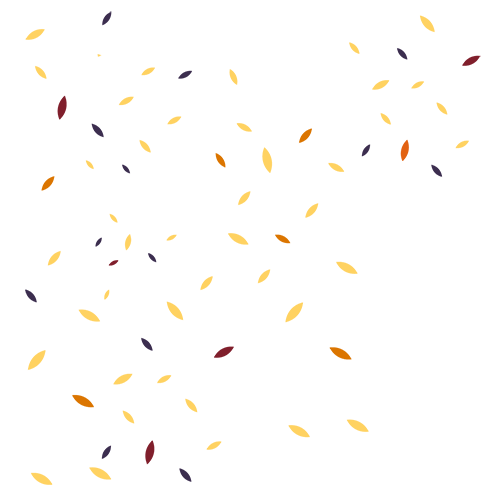
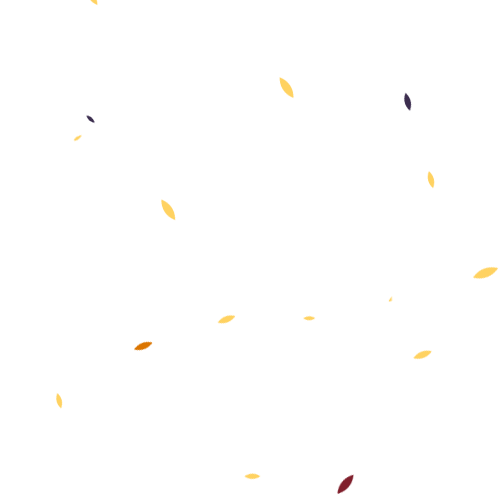
more leaves and font

diff --git a/new.html b/new.html
@@ -1,5 +1,6 @@
 <!DOCTYPE html>
-<html lang="en"><!-- InstanceBegin template="/Templates/page.dwt" codeOutsideHTMLIsLocked="false" -->
+<html lang="en">
+<!-- InstanceBegin template="/Templates/page.dwt" codeOutsideHTMLIsLocked="false" -->
 <head>
 <meta charset="utf-8">
 <meta http-equiv="X-UA-Compatible" content="IE=edge">
@@ -7,7 +8,7 @@
 <!-- Minimize page flickering for Google Optimize -->
 <style>
 .async-hide {
-    opacity: 0 !important
+	opacity: 0 !important
 }
 </style>
 <script>(function(a,s,y,n,c,h,i,d,e){s.className+=' '+y;h.start=1*new Date;
@@ -90,19 +91,35 @@ e.async=true;var t=document.getElementsByTagName("script")[0];t.parentNode.inser
 <!-- pinterest - do not remove -->
 <meta name="p:domain_verify" content="555e6e72efd395725f489e2ca0d49b94"/>
 <!-- pinterest - do not remove -->
-<link rel="stylesheet" href="https://use.typekit.net/hxw5uje.css">
+<link href="https://fonts.googleapis.com/css2?family=Pacifico&display=swap" rel="stylesheet"> 
 <style>
-.leaves-one {
-    height: 100vh;
-    background: #dbd0d5 url("leaves-one.png") bottom center repeat;
-    -webkit-animation: slide 8s linear infinite;
-    animation: slide 8s linear infinite;
+h1.pacifico {
+	font-family: 'Pacifico', cursive;
+	color: #3c2e4f;
+	font-size: 140px;
+	letter-spacing: .5px;
 }
-    .leaves-two {
-    height: 100vh;
-    background: transparent url("leaves-two.png") bottom center repeat;
-    -webkit-animation: slide 4s linear infinite;
-    animation: slide 4s linear infinite;
+h1.pacifico span {
+	padding-left: 14px;
+	letter-spacing: -18px;
+}
+.leaves-one {
+	height: 100vh;
+	background: #dbd0d5 url("leaves-one.png") bottom center repeat;
+	-webkit-animation: slide 10s linear infinite;
+	animation: slide 10s linear infinite;
+}
+.leaves-two {
+	height: 100vh;
+	background: transparent url("leaves-two.png") bottom center repeat;
+	-webkit-animation: slide 9s linear infinite;
+	animation: slide 9s linear infinite;
+}
+.leaves-three {
+	height: 100vh;
+	background: transparent url("leaves-three.png") bottom center repeat;
+	-webkit-animation: slide 8s linear infinite;
+	animation: slide 8s linear infinite;
 }
 @-webkit-keyframes slide {
 from {
@@ -303,25 +320,24 @@ height="0" width="0" style="display:none;visibility:hidden"></iframe>
     <div id="global-alert" class="container-md" style="display:none;"></div>
   </div>
   <!-- InstanceBeginEditable name="Content" -->
-  <div class="row leaves-one"><div class="leaves-two">
-    <div class="black">
-      <div class="container text-center padding-top-30">
-        <div class="text-center bella-font">Storybook Holiday</div>
-        <div class="text-center mountain-font big">rEINDEEr<br>
-          GAMEs</div>
-        <h4 class="black text-center">Join us for our annual holiday celebration! Our Lone Tree location will transform into a woodsy winter wonderland with delightful entertainment, spirited festivities, and fun for the whole family. </h4>
+  <div class="row leaves-one">
+    <div class="leaves-two">
+      <div class="leaves-three">
+        <div class="container text-center padding-top-30">
+            <h1 class="pacifico">Let<span>'</span>s Get Cozy</h1>
+        </div>
+        <div class="tree-row"></div>
       </div>
     </div>
-    <div class="tree-row text-center"><img class="deer" src="reindeer.png" alt="Reindeer"></div>
-      </div></div>
+  </div>
   <!-- InstanceEndEditable --> </div>
 <div class="social-footer bg-gray-10 padding-top-15 padding-bottom-20">
   <div class="bg-gray-10 clearfix">
     <div class="col-sm-6">
       <div class="text-center csn">
         <h4><a href="safety-notice/">Community Safety Notice</a></h4>
-          <!--to add back, remove csn class above
-          <h4>2020&nbsp;Census: <span class="text-nowrap"><a href="https://2020census.gov/" target="_blank">Website</a> <span style="font-size:14px">&bull;</span> <a href="https://2020census.gov/content/dam/2020census/materials/partners/2019-10/census101.pdf" target="_blank">Quick Info</a> <span style="font-size:14px">&bull;</span> <a href="https://2020census.gov/content/dam/2020census/materials/languages/guides/English-Guide.pdf" target="_blank">Guide</a></span></h4>-->
+        <!--to add back, remove csn class above
+          <h4>2020&nbsp;Census: <span class="text-nowrap"><a href="https://2020census.gov/" target="_blank">Website</a> <span style="font-size:14px">&bull;</span> <a href="https://2020census.gov/content/dam/2020census/materials/partners/2019-10/census101.pdf" target="_blank">Quick Info</a> <span style="font-size:14px">&bull;</span> <a href="https://2020census.gov/content/dam/2020census/materials/languages/guides/English-Guide.pdf" target="_blank">Guide</a></span></h4>--> 
       </div>
     </div>
     <div class="col-sm-6">
@@ -410,4 +426,5 @@ height="0" width="0" style="display:none;visibility:hidden"></iframe>
 </script> 
 <!-- InstanceEndEditable -->
 </body>
-<!-- InstanceEnd --></html>
+<!-- InstanceEnd -->
+</html>
